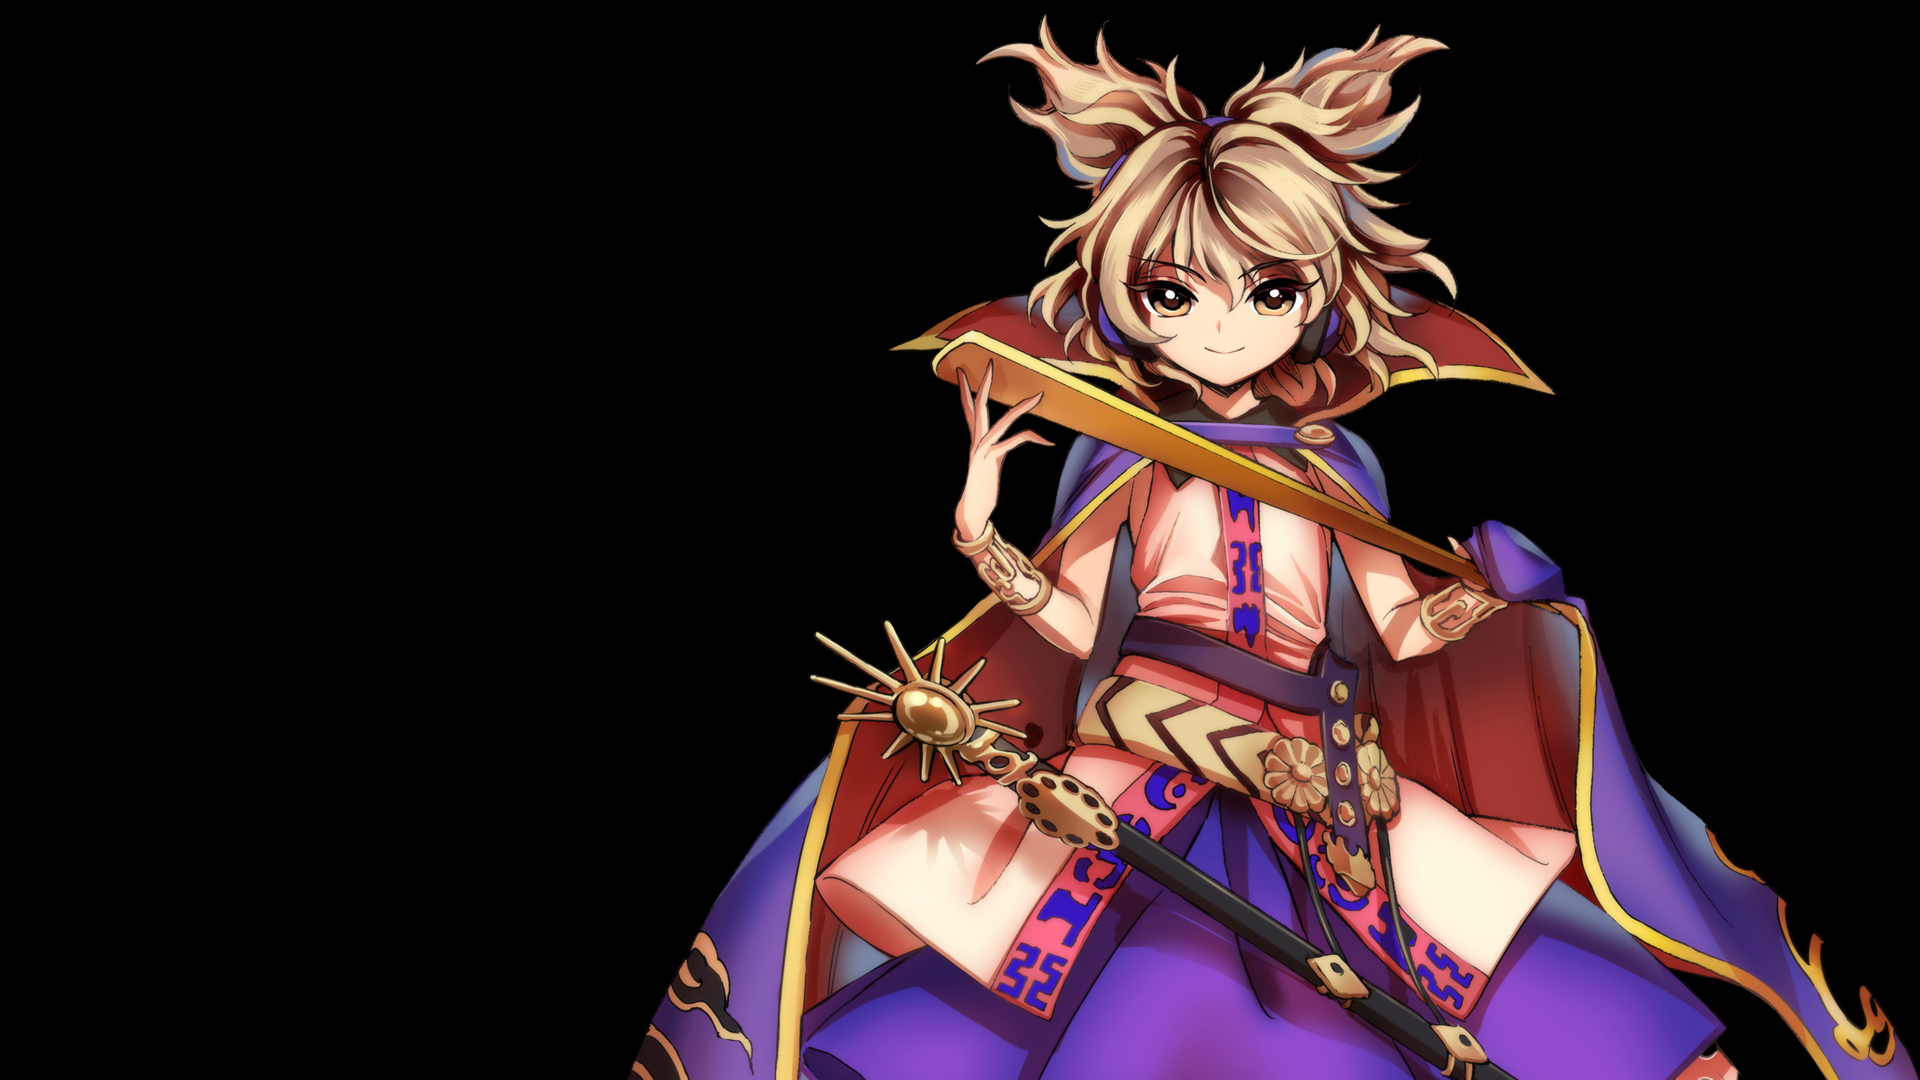
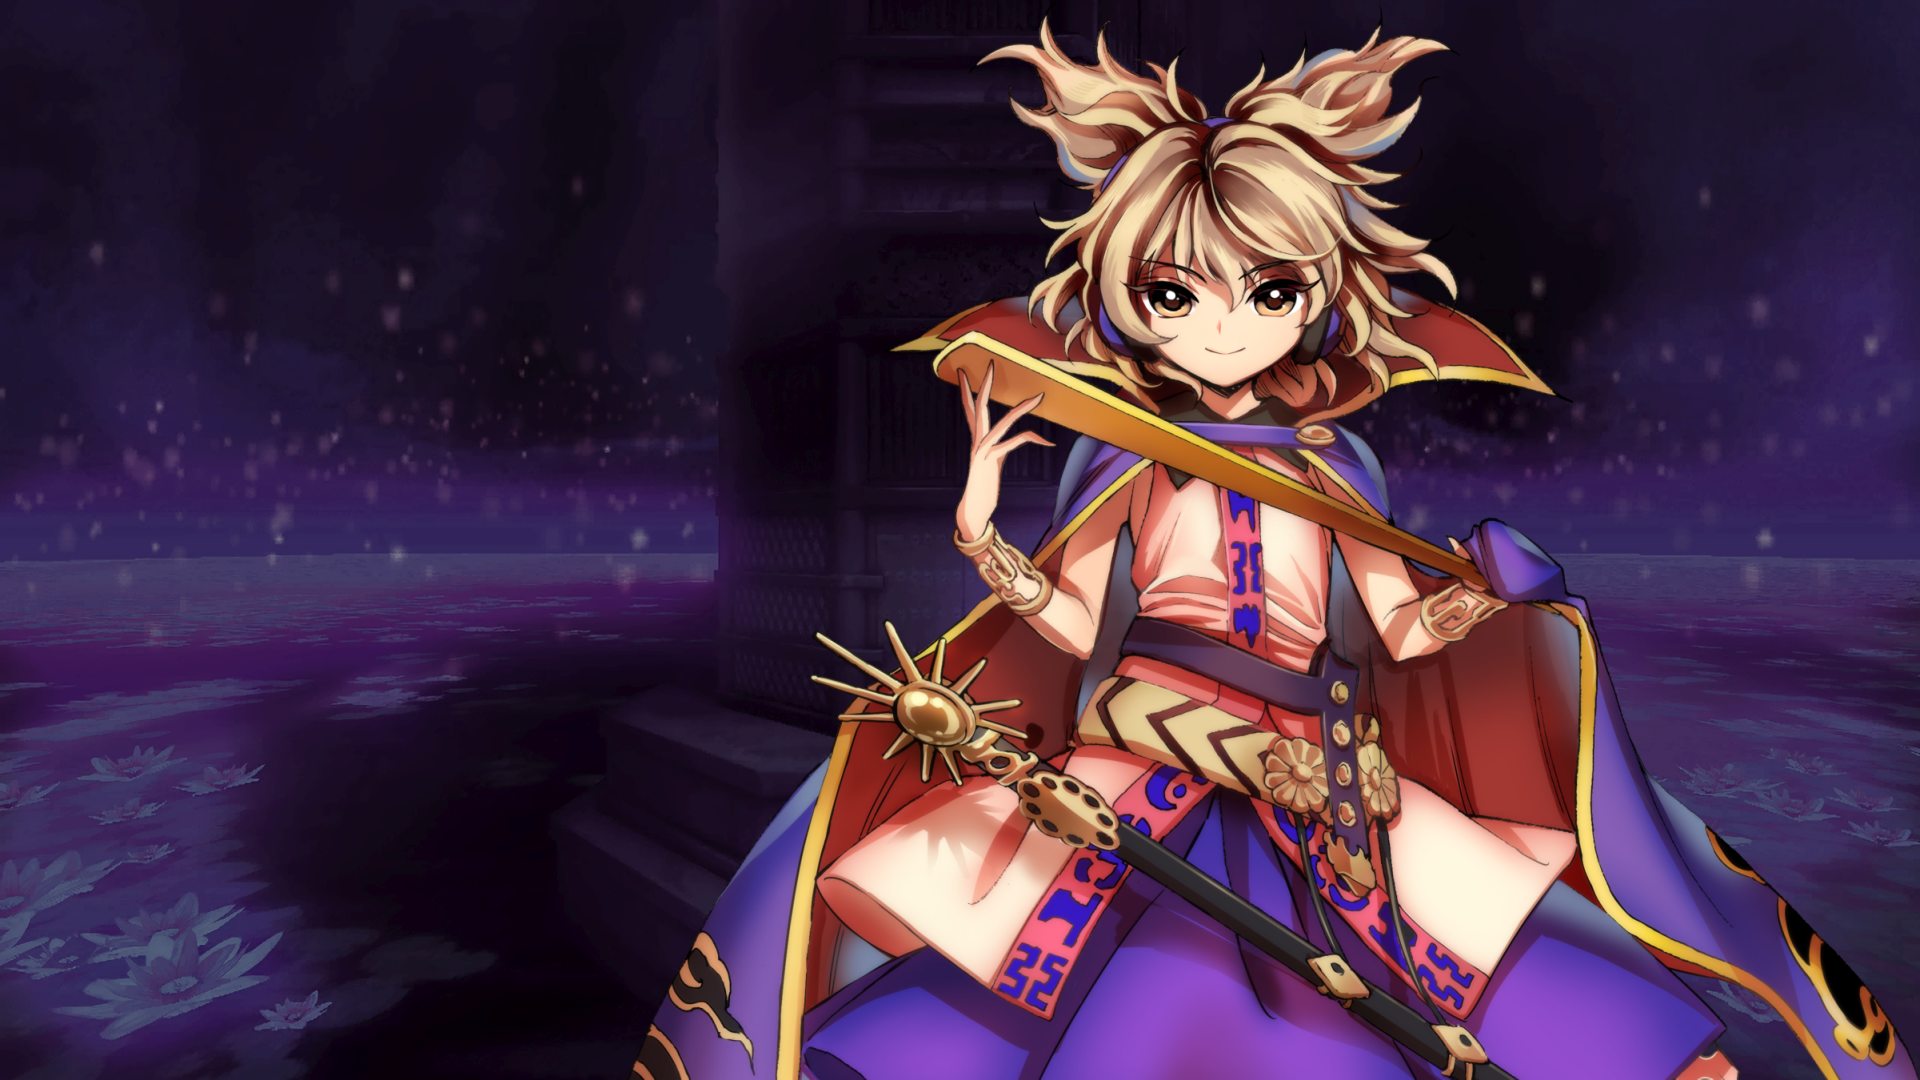
Character action animation, new splash art
Using Alcyr's TwoFormCharacter structuring for less mechanical purposes,
Miko now has three seperate sprites she switches between depending on played
card types and turn resets. She also floats up and down slightly, and gets
small extra flicker effects for repeated card type plays. While getting
entirely new art or editing the sprites to be more distinct would be nice,
this should still be a major leap from the current static status, and is
readily fancier than a fair number of mods anyway.

The new splash art, using some tinted stage assets from Hopeless Masquerade,
distinguishes the last mega-updates from the base release. Non-tinted,
daytime background arts might accompany the next mega-update, if such is
ever brought up again. There's still spare slots, after all.

diff --git a/src/main/java/administrix/PseudoFormCharacter.java b/src/main/java/administrix/PseudoFormCharacter.java
@@ -1,0 +1,166 @@
+package administrix;
+
+import administrix.AdministrixMod;
+import basemod.abstracts.CustomEnergyOrb;
+import basemod.abstracts.CustomPlayer;
+import basemod.animations.AbstractAnimation;
+import com.badlogic.gdx.graphics.Color;
+import com.badlogic.gdx.math.MathUtils;
+import com.megacrit.cardcrawl.actions.animations.VFXAction;
+import com.megacrit.cardcrawl.actions.utility.UseCardAction;
+import com.megacrit.cardcrawl.cards.AbstractCard;
+import com.megacrit.cardcrawl.core.Settings;
+import com.megacrit.cardcrawl.dungeons.AbstractDungeon;
+import com.megacrit.cardcrawl.monsters.AbstractMonster;
+import com.megacrit.cardcrawl.rooms.AbstractRoom;
+import com.megacrit.cardcrawl.vfx.combat.AnimatedSlashEffect;
+import com.megacrit.cardcrawl.vfx.combat.DarkOrbPassiveEffect;
+import com.megacrit.cardcrawl.vfx.combat.FlyingSpikeEffect;
+import com.megacrit.cardcrawl.vfx.combat.PlasmaOrbPassiveEffect;
+
+public abstract class PseudoFormCharacter extends CustomPlayer {
+
+    private static String state;
+
+    protected AbstractAnimation animationP;
+    protected AbstractAnimation animationA;
+    protected AbstractAnimation animationS;
+
+    protected AbstractRoom currentRoom;
+
+    public PseudoFormCharacter(String name, PlayerClass playerClass,
+                               String[] orbTexturesA, String orbVfxPathA, float[] layerSpeedsA,
+                               AbstractAnimation animationP, AbstractAnimation animationA,
+                               AbstractAnimation animationS) {
+        super(name, playerClass, new CustomEnergyOrb(orbTexturesA, orbVfxPathA, layerSpeedsA), animationA);
+
+        this.animationP = animationP;
+        this.animationA = animationA;
+        this.animationS = animationS;
+
+        currentRoom = null;
+    }
+
+    public void swap(String chooseForm)
+    {
+        switch (chooseForm) {
+            case "Attack":
+                this.animation = animationA;
+                break;
+            case "Skill":
+                this.animation = animationS;
+                break;
+            default:
+                this.animation = animationP;
+                break;
+        }
+    }
+
+    public void swish(String chooseFlicker) {
+        Color switchColor;
+
+        if (!chooseFlicker.equals(state)) {
+            state = chooseFlicker;
+            return;
+        }
+
+        switch (chooseFlicker) {
+            case "Attack":
+                switchColor = Color.RED.cpy();
+                break;
+            case "Skill":
+                switchColor = Color.BLUE.cpy();
+                break;
+            default:
+                switchColor = Color.GOLD.cpy();
+                break;
+        }
+
+        if (MathUtils.randomBoolean()) {
+            for (int i = 0; i < 4; i++) {
+                AbstractDungeon.actionManager.addToBottom(new VFXAction(new FlyingSpikeEffect(AbstractDungeon.player.hb.cX - MathUtils.random(-160.0F, 160.0F) * Settings.scale, AbstractDungeon.player.hb.cY - MathUtils.random(150.0F, 180.0F) * Settings.scale, 45.0F + MathUtils.random(15.0F, 75.0F), 0.0F, MathUtils.random(200.0F, 50.0F) * Settings.scale, switchColor)));
+            }
+        } else {
+            AbstractDungeon.actionManager.addToBottom(new VFXAction(new AnimatedSlashEffect(AbstractDungeon.player.hb.cX - 120.0F * Settings.scale, AbstractDungeon.player.hb.cY - 120.0F * Settings.scale, 0.0F, 40.0F * Settings.scale, 20.0F, 0.8F, switchColor, switchColor)));
+            AbstractDungeon.actionManager.addToBottom(new VFXAction(new AnimatedSlashEffect(AbstractDungeon.player.hb.cX + 120.0F * Settings.scale, AbstractDungeon.player.hb.cY - 120.0F * Settings.scale, 0.0F, 40.0F * Settings.scale, 340.0F, 0.8F, switchColor, switchColor)));
+        }
+    }
+
+    @Override
+    public void update() {
+        super.update();
+        if (currentRoom == null || !(currentRoom.equals(AbstractDungeon.getCurrRoom())))
+        {
+            currentRoom = AbstractDungeon.getCurrRoom();
+            state = "Default";
+            swap("Default");
+            if (MathUtils.randomBoolean()) {
+                for (int i = 0; i < 8; i++) {
+                    AbstractDungeon.effectsQueue.add(new DarkOrbPassiveEffect(AbstractDungeon.player.hb.cX - MathUtils.random(-160.0F, 160.0F) * Settings.scale, AbstractDungeon.player.hb.cY - MathUtils.random(120.0F, 160.0F) * Settings.scale));
+                }
+            } else {
+                for (int i = 0; i < 4; i++) {
+                    AbstractDungeon.effectsQueue.add(new PlasmaOrbPassiveEffect(AbstractDungeon.player.hb.cX - MathUtils.random(-160.0F, 160.0F) * Settings.scale, AbstractDungeon.player.hb.cY - MathUtils.random(120.0F, 160.0F) * Settings.scale));
+                }
+            }
+        }
+    }
+
+    @Override
+    public void applyStartOfTurnPostDrawRelics() {
+        super.applyStartOfTurnPostDrawRelics();
+        swap("Default");
+    }
+
+    @Override
+    public void onVictory() {
+        super.onVictory();
+        swap("Default");
+        powers.clear();
+    }
+
+    @Override
+    public void useCard(AbstractCard c, AbstractMonster monster, int energyOnUse) {
+        if (c.type == AbstractCard.CardType.ATTACK) {
+            this.swap("Attack");
+            this.swish("Attack");
+            this.useFastAttackAnimation();
+        } else if (c.type == AbstractCard.CardType.SKILL) {
+            this.swap("Skill");
+            this.swish("Skill");
+        } else {
+            this.swap("Default");
+            this.swish("Default");
+        }
+
+        c.calculateCardDamage(monster);
+        c.use(this, monster);
+        AbstractDungeon.actionManager.addToBottom(new UseCardAction(c, monster));
+        if (!c.dontTriggerOnUseCard) {
+            this.hand.triggerOnOtherCardPlayed(c);
+        }
+
+        this.hand.removeCard(c);
+        this.cardInUse = c;
+        c.target_x = (float)(Settings.WIDTH / 2);
+        c.target_y = (float)(Settings.HEIGHT / 2);
+        if (c.costForTurn > 0 && !c.freeToPlayOnce && (!this.hasPower("Corruption") || c.type != AbstractCard.CardType.SKILL)) {
+            this.energy.use(c.costForTurn);
+        }
+
+        if (!this.hand.canUseAnyCard() && !this.endTurnQueued) {
+            AbstractDungeon.overlayMenu.endTurnButton.isGlowing = true;
+        }
+
+    }
+
+    @Override
+    public void applyStartOfCombatLogic() {
+        super.applyStartOfCombatLogic();
+    }
+
+    @Override
+    public void applyStartOfCombatPreDrawLogic() {
+        super.applyStartOfCombatPreDrawLogic();
+    }
+}

diff --git a/src/main/java/administrix/characters/Administrix.java b/src/main/java/administrix/characters/Administrix.java
@@ -4,10 +4,12 @@ import java.util.ArrayList;
 
 import java.util.Map.Entry;
 
+import administrix.PseudoFormCharacter;
 import administrix.cards.common.attack.Daybreak;
 import administrix.cards.common.skill.Nightfall;
 import administrix.cards.uncommon.power.*;
 import administrix.cards.starter.*;
+import basemod.animations.SpriterAnimation;
 import com.badlogic.gdx.graphics.Color;
 import com.badlogic.gdx.graphics.g2d.BitmapFont;
 import com.megacrit.cardcrawl.actions.AbstractGameAction;
@@ -35,7 +37,7 @@ import org.apache.logging.log4j.Logger;
 
 import static com.megacrit.cardcrawl.dungeons.AbstractDungeon.cardRandomRng;
 
-public class Administrix extends CustomPlayer{
+public class Administrix extends PseudoFormCharacter {
 
     public static final int ENERGY_PER_TURN = 3;
 
@@ -50,7 +52,7 @@ public class Administrix extends CustomPlayer{
     }
 
     public static final String CHARACTER_IMG_PATH = AdministrixMod.IMG_PATH + "char/";
-    public static final String AX_SHOULDER_2 =  CHARACTER_IMG_PATH + "miko_shoulder2.png";
+    public static final String AX_SHOULDER_2 = CHARACTER_IMG_PATH + "miko_shoulder2.png";
     public static final String AX_SHOULDER = CHARACTER_IMG_PATH + "miko_shoulder.png";
     public static final String AX_CORPSE = CHARACTER_IMG_PATH + "corpse_administrix.png";
     public static final String ADMINISTRIX_MAIN = CHARACTER_IMG_PATH + "main_administrix.png";
@@ -90,17 +92,20 @@ public class Administrix extends CustomPlayer{
 
     public static final int STARTING_HP = 65;
     public static final int MAX_HP = 65;
-    public static final int STARTING_GOLD = 111;
+    public static final int STARTING_GOLD = 101;
     public static final int HAND_SIZE = 5;
 
     public Administrix(String playerName) {
         super(playerName, CharacterEnum.TheAdministrix, orbTextures,
-              ADMINISTRIX_VFX_PATH, LAYER_SPEED, null, null);
+              ADMINISTRIX_VFX_PATH, LAYER_SPEED,
+                new SpriterAnimation(CHARACTER_IMG_PATH + "main/main.scml"),
+                new SpriterAnimation(CHARACTER_IMG_PATH + "attack/attack.scml"),
+                new SpriterAnimation(CHARACTER_IMG_PATH + "skill/skill.scml"));
 
         this.dialogX = (this.drawX + 0.0F * Settings.scale);
         this.dialogY = (this.drawY + 220.0F * Settings.scale);
 
-        initializeClass(ADMINISTRIX_MAIN,
+        initializeClass(null,
                 AX_SHOULDER_2, // required call to load textures and setup energy/loadout
                 AX_SHOULDER,
                 AX_CORPSE,
